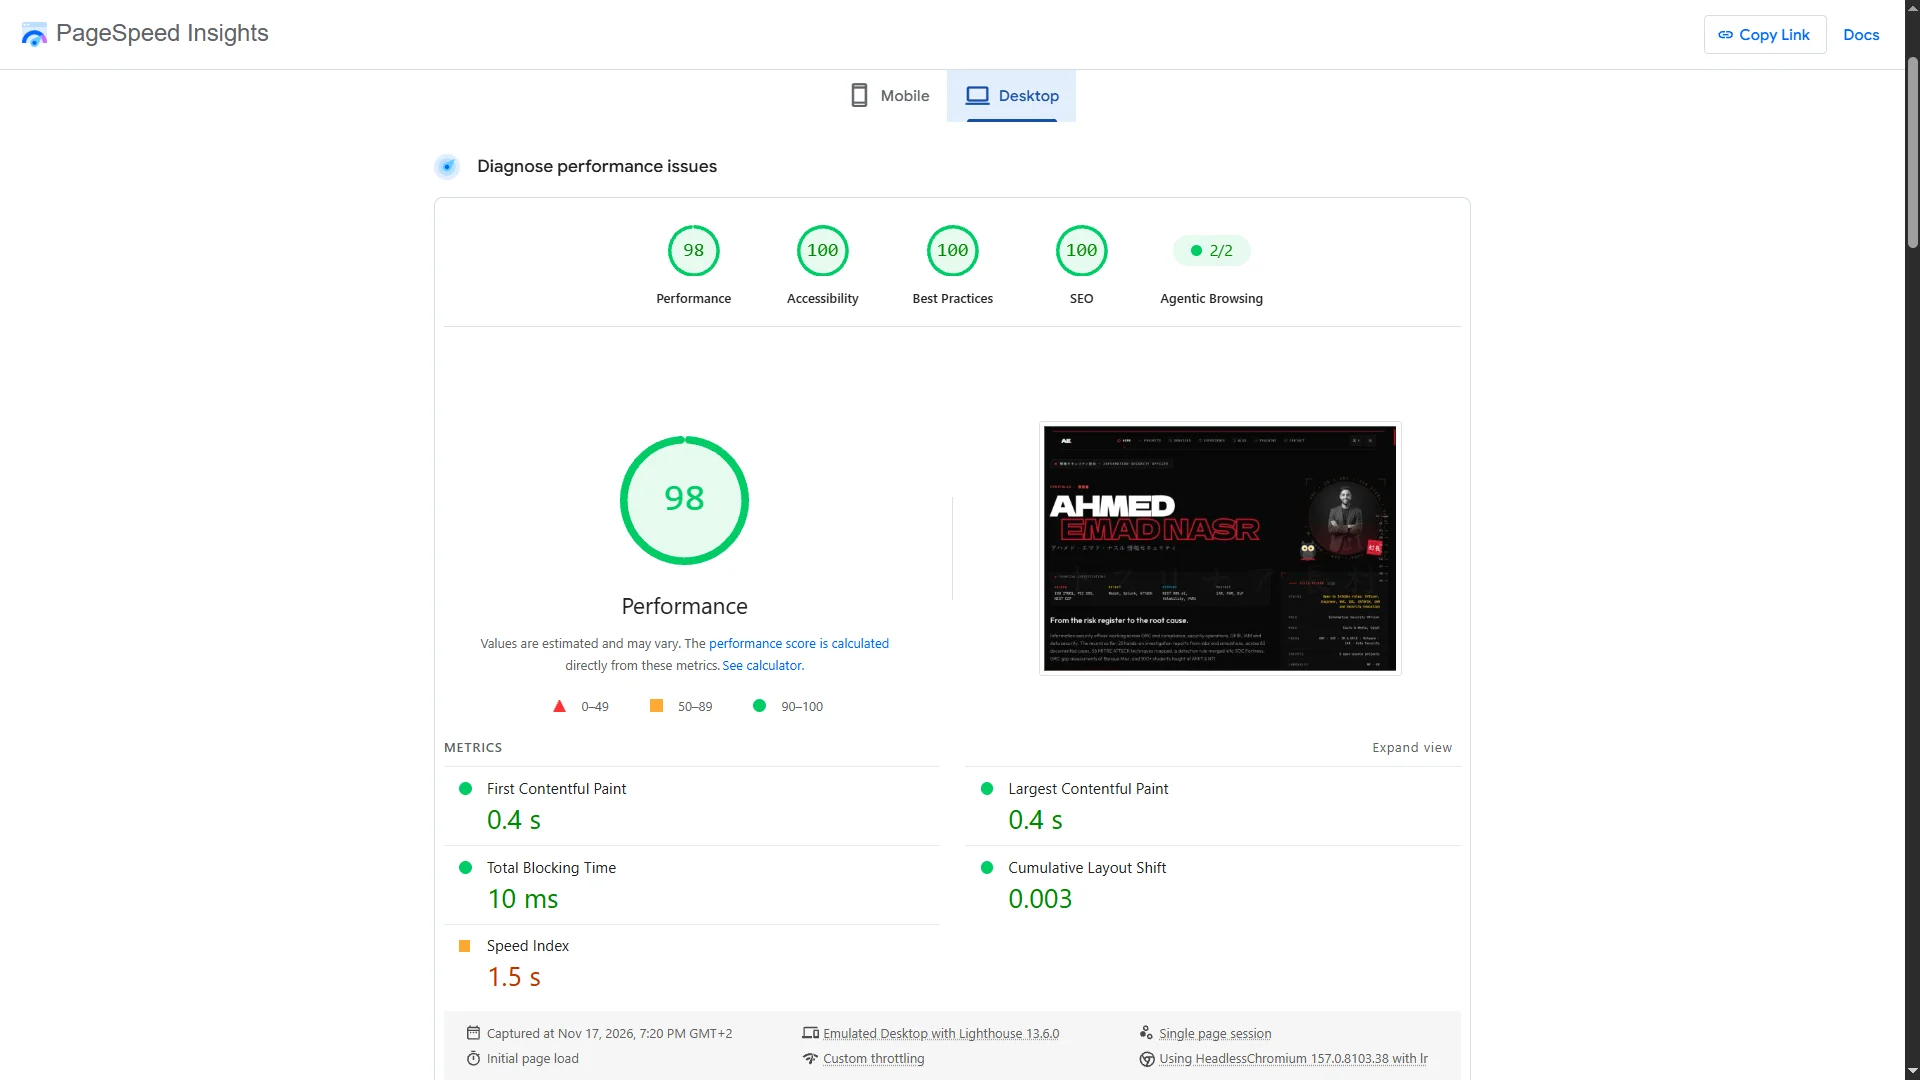
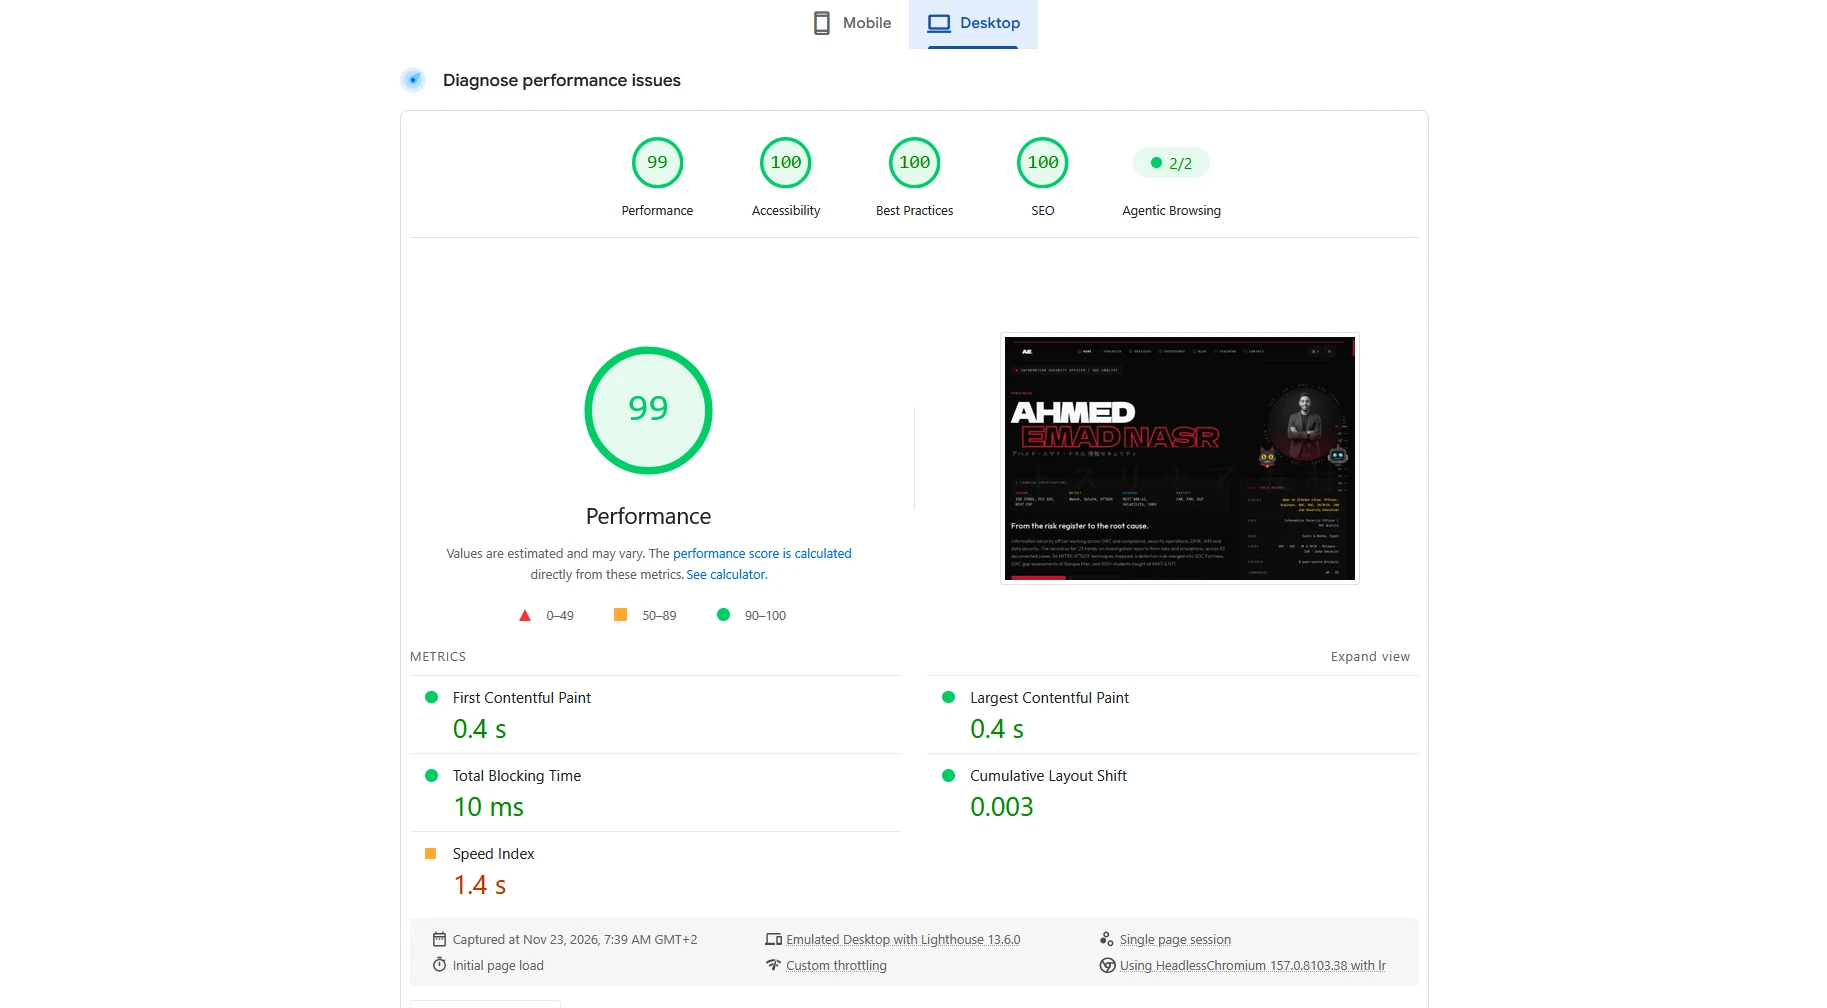
updated readme and screenshots for pagespeed insights

diff --git a/README.md b/README.md
@@ -20,8 +20,8 @@
 [![TryHackMe](https://img.shields.io/badge/TryHackMe-profile-212C42?style=flat-square&logo=tryhackme&logoColor=white)](https://tryhackme.com/p/Ahmed.Emad.Nasr)
 [![Email](https://img.shields.io/badge/Email-ahmed.em.nasr%40gmail.com-D14836?style=flat-square&logo=gmail&logoColor=white)](mailto:ahmed.em.nasr@gmail.com)
 
-[![PageSpeed mobile](https://img.shields.io/badge/PageSpeed_mobile-94-0CCE6B?style=flat-square&logo=pagespeedinsights&logoColor=white)](#-pagespeed---report)
-[![PageSpeed desktop](https://img.shields.io/badge/PageSpeed_desktop-97-0CCE6B?style=flat-square&logo=pagespeedinsights&logoColor=white)](#-pagespeed---report)
+[![PageSpeed mobile](https://img.shields.io/badge/PageSpeed_mobile-97-0CCE6B?style=flat-square&logo=pagespeedinsights&logoColor=white)](#-pagespeed---report)
+[![PageSpeed desktop](https://img.shields.io/badge/PageSpeed_desktop-99-0CCE6B?style=flat-square&logo=pagespeedinsights&logoColor=white)](#-pagespeed---report)
 [![Accessibility](https://img.shields.io/badge/Accessibility-100-0CCE6B?style=flat-square&logo=accessibleicon&logoColor=white)](#-pagespeed---report)
 [![SEO](https://img.shields.io/badge/SEO-100-0CCE6B?style=flat-square&logo=google&logoColor=white)](#-pagespeed---report)
 [![License: GPL-3.0](https://img.shields.io/badge/code-GPL--3.0-555555?style=flat-square)](./LICENSE)
@@ -52,26 +52,26 @@ MITRE ATT&CK mapping underneath for the technical reader.
 ## `> pagespeed --report`
 
 Measured with [PageSpeed Insights](https://pagespeed.web.dev/) on the live home page.
-Lab scores vary by a few points between runs.
+Captured on Nov 23, 2026 (Lighthouse 13.6.0; mobile = emulated Moto G Power on slow 4G, desktop = emulated desktop). Lab scores vary by a few points between runs.
 
 <table>
   <tr>
-    <th align="center">📱 Mobile — 94</th>
-    <th align="center">🖥 Desktop — 97</th>
+    <th align="center">📱 Mobile — 97</th>
+    <th align="center">🖥 Desktop — 99</th>
   </tr>
   <tr>
-    <td><img src="./screenshots/pagespeed-mobile.webp" alt="PageSpeed Insights, mobile: Performance 94, Accessibility 100, Best Practices 100, SEO 100" width="100%"></td>
-    <td><img src="./screenshots/pagespeed-desktop.webp" alt="PageSpeed Insights, desktop: Performance 97, Accessibility 100, Best Practices 100, SEO 100" width="100%"></td>
+    <td><img src="./screenshots/pagespeed-mobile.webp" alt="PageSpeed Insights, mobile: Performance 97, Accessibility 100, Best Practices 100, SEO 100" width="100%"></td>
+    <td><img src="./screenshots/pagespeed-desktop.webp" alt="PageSpeed Insights, desktop: Performance 99, Accessibility 100, Best Practices 100, SEO 100" width="100%"></td>
   </tr>
 </table>
 
 | Metric | Mobile | Desktop | What it means |
 | :-- | :--: | :--: | :-- |
 | Largest Contentful Paint | **1.8 s** | **0.4 s** | the main content is on screen |
-| Total Blocking Time | **40 ms** | **50 ms** | the page never freezes while it loads |
-| Cumulative Layout Shift | **0.005** | **0.003** | nothing jumps around |
+| Total Blocking Time | **70 ms** | **10 ms** | the page never freezes while it loads |
+| Cumulative Layout Shift | **0** | **0.003** | nothing jumps around |
 | First Contentful Paint | 1.8 s | **0.4 s** | first pixels |
-| Speed Index | 5.2 s | 1.7 s | held back on purpose by the intro screen and the entrance animations |
+| Speed Index | 3.5 s | 1.4 s | held back on purpose by the intro screen and the entrance animations |
 
 ---
 
